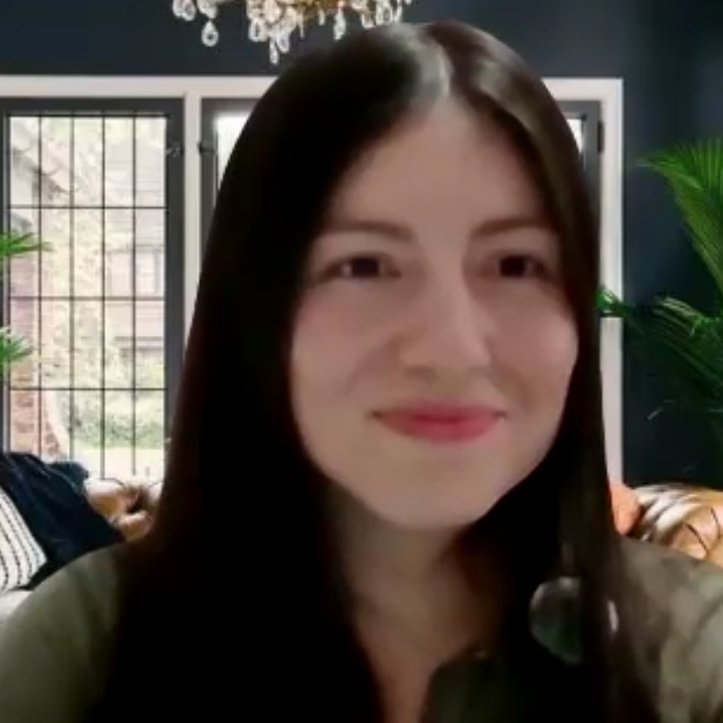
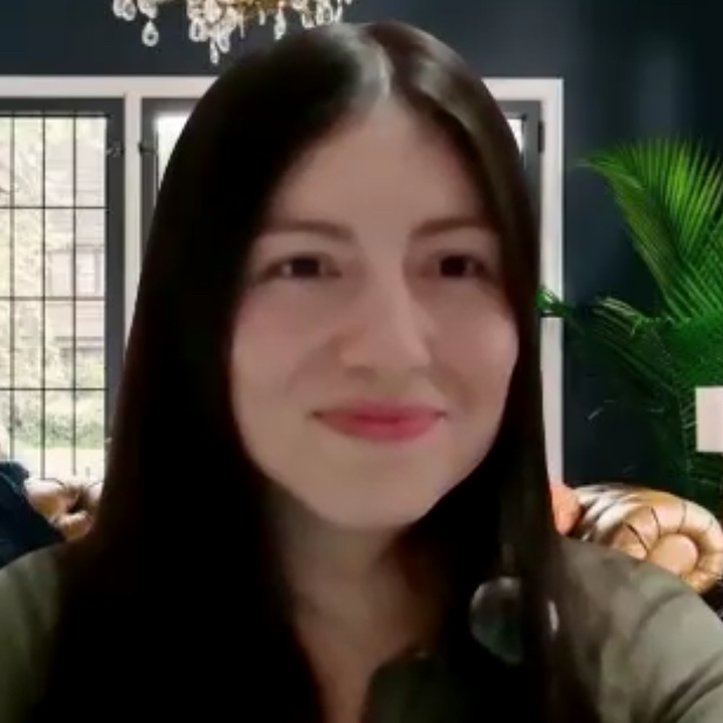
Hosts: precisely recenter Luisa's photo (measured off pupils, not eyeballed)
Previous fix overcorrected left, pushing her visibly right. This time
measured her exact pupil/nose x-position on a zoomed-in grid of the
source photo instead of judging from the small thumbnail, and set the
crop so that measured center lands exactly on the frame's midline.
Cache-bust v=11.

diff --git a/index.html b/index.html
@@ -202,7 +202,7 @@
         <div class="host">
           <figure>
             <div class="host__photo">
-              <img src="images/host-luisa-fernanda.jpg?v=10" alt="Luisa Fernanda, co-host of Prana Party" width="723" height="723" loading="lazy" decoding="async">
+              <img src="images/host-luisa-fernanda.jpg?v=11" alt="Luisa Fernanda, co-host of Prana Party" width="723" height="723" loading="lazy" decoding="async">
             </div>
             <figcaption class="host__name">Luisa Fernanda</figcaption>
           </figure>
